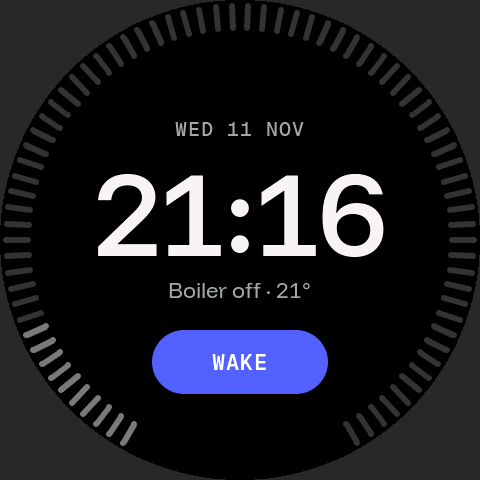
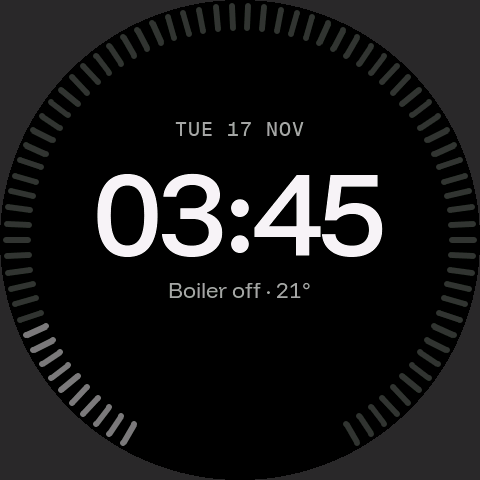
Display: Standby has no WAKE pill; date, clock and line centred as one group
A tap anywhere on Standby wakes the machine. Diverges from the design's DisplayStandby card on purpose.

diff --git a/scripts/verify_display_menu.py b/scripts/verify_display_menu.py
@@ -270,15 +270,15 @@ def menu_from_standby():
         "tap 240 240; wait 1700; expect screen standby; expect mode 0; redraw power.redraw; quit",
     )
     page = sim.layout("menu.json")
-    check_menu(page, MODES, "BREW", "opened with WAKE")
+    check_menu(page, MODES, "BREW", "opened from Standby")
     glyph = slot(page)
-    checks.true(glyph is not None and box(glyph) == (226, 432, 253, 459), "opened with WAKE: the warning glyph is 28 px at 6 o'clock")
+    checks.true(glyph is not None and box(glyph) == (226, 432, 253, 459), "opened from Standby: the warning glyph is 28 px at 6 o'clock")
     if glyph is not None:
-        checks.color(glyph["color"], WARNING, "opened with WAKE: the glyph is warning (flush recommended after waking)")
+        checks.color(glyph["color"], WARNING, "opened from Standby: the glyph is warning (flush recommended after waking)")
         lowest = max(parent(page, page.find(name))["y2"] for name in ("WATER", "GRIND"))
-        checks.true(lowest < glyph["y1"] - 14, "opened with WAKE: the slot's touch disc is clear of the bottom discs")
+        checks.true(lowest < glyph["y1"] - 14, "opened from Standby: the slot's touch disc is clear of the bottom discs")
     check_menu(sim.layout("back.json"), MODES, "BREW", "back from the warnings")
-    budget(sim, "wake.redraw", "Standby to Menu (WAKE)")
+    budget(sim, "wake.redraw", "Standby to Menu (tap)")
     budget(sim, "lens.redraw", "Menu to Warnings (glyph)")
     budget(sim, "done.redraw", "Warnings to Menu (DONE)")
     budget(sim, "power.redraw", "Menu to Standby (power disc)")
@@ -390,20 +390,20 @@ def menu_forced():
     )
     budget(sim, "brew.redraw", "Menu to Brew, forced (mode set elsewhere)")
     budget(sim, "steam.redraw", "Menu to Steam, forced (steam switch)")
-    # Standby's clock repaints on each of its three frames (13.2, 13.8 and 15.6% with its label, line and
-    # WAKE). With the menu's 34% that is over three quarters of the panel in three frames: it cannot fit.
+    # Standby's clock repaints on each of its frames, with its label and line. With the menu's 34% that is over
+    # three quarters of the panel in three frames: it cannot fit.
     note(sim, "standby.redraw", "Menu to Standby, forced (mode set elsewhere)")
 
 
 def menu_disconnected():
-    # Without the controller the display sits on Standby and WAKE is away, so the menu is only reached from
+    # Without the controller the display sits on Standby and a tap does not wake it, so the menu is only reached from
     # Information. The script's `mode brew` is a shortcut the display itself never offers; what it shows is
     # the menu while no mode can be entered.
     sim = Sim("menu-disconnected")
     drive(
         sim,
         "wait 3500; tap 240 362; wait 1300; expect screen menu; redraw skip.redraw;"
-        "controller disconnected; wait 2500; expect screen standby; expect hidden WAKE; redraw lost.redraw;"
+        "controller disconnected; wait 2500; expect screen standby; redraw lost.redraw;"
         "mode brew; wait 1500; expect screen brew; tap 240 446; wait 1300; expect screen menu;"
         "expect hidden BREW; expect hidden STEAM; expect hidden WATER; expect hidden GRIND; expect text INFO;"
         "shot alone.bmp; layout alone.json;"

diff --git a/scripts/verify_display_core.py b/scripts/verify_display_core.py
@@ -30,7 +30,7 @@ standby = sim.layout("standby.json")
 checks.equal(standby.ring["layout"], "single", "Standby draws the single ring")
 checks.equal(standby.ring["tone"][0], "faint", "Standby's ring is ink-faint")
 checks.equal(standby.ring["notch"][0], -1, "Standby's ring has no notch")
-checks.true(standby.has("WAKE"), "WAKE is visible on Standby")
+checks.true(not standby.has("WAKE"), "Standby has no WAKE pill: a tap anywhere wakes")
 checks.true(any("Boiler off" in t for t in standby.texts()), "Standby says what the boiler is doing")
 brew = sim.layout("brew.json")
 checks.equal(brew.ring["layout"], "split", "Brew draws the split ring")
@@ -67,9 +67,9 @@ sim.save("brew.bmp", "docs/display/v2/core/brew-heating.png")
 for attempt in range(3):
     sim = Sim("core-states")
     sim.run(
-        "wait 3500; controller disconnected; wait 2500; expect text CONNECTING; expect hidden WAKE; redraw settle.json;"
+        "wait 3500; controller disconnected; wait 2500; expect text CONNECTING; redraw settle.json;"
         "layout before.json; wait 2000; redraw comet.json; layout after.json; shot connecting.bmp; error 4; wait 1500;"
-        "expect text TEMPERATURE ERROR; expect hidden WAKE; shot error.bmp; quit"
+        "expect text TEMPERATURE ERROR; shot error.bmp; quit"
     )
     clocks = [[o["text"] for o in sim.layout(name).objects if o["kind"] == "reading"] for name in ("before.json", "after.json")]
     if clocks[0] == clocks[1]:
@@ -80,14 +80,15 @@ checks.at_most(max(sim.redraw("comet.json")), 1.0, "the busy comet repaints unde
 sim.save("connecting.bmp", "docs/display/v2/core/standby-connecting.png")
 sim.save("error.bmp", "docs/display/v2/core/standby-error.png")
 
-# Pressed parts invert, WAKE opens the menu, Light is a setting.
+# A tap anywhere on Standby opens the menu, Light is a setting, pressed parts invert.
 sim = Sim("core-input")
 sim.run(
-    "wait 3500; press 240 362; wait 130; layout pressed.json; release; wait 700; expect screen menu;"
-    "mode brew; wait 2500; theme 1; wait 600; layout light.json; shot light.bmp; quit"
+    "wait 3500; tap 240 362; wait 700; expect screen menu;"
+    "mode brew; wait 2500; theme 1; wait 600; layout light.json; shot light.bmp;"
+    "theme 0; wait 600; press 240 344; wait 130; layout pressed.json; release; quit"
 )
 checks.count(sim)
-pressed = sim.layout("pressed.json").find("WAKE")
+pressed = sim.layout("pressed.json").find("START")
 checks.color(pressed and pressed.get("fill"), "#f2f2f2", "a pressed pill inverts to ink")
 light = sim.layout("light.json")
 checks.color(light.objects[0]["fill"], "#e9e9e9", "the Light theme paints the face in surface-0")

diff --git a/src/display/ui/bettermate/screens/StandbyScreen.cpp b/src/display/ui/bettermate/screens/StandbyScreen.cpp
@@ -8,7 +8,10 @@ namespace {
 #define BM_DEGREE "\xC2\xB0"
 #define BM_MIDDOT "\xC2\xB7"
 
-constexpr int CLOCK_BASELINE = 256;
+// The date, the clock and the line under it are centred on the panel as one group.
+constexpr int LABEL_BASELINE = 166;
+constexpr int CLOCK_BASELINE = 286;
+constexpr int LINE_BASELINE = 328;
 // At rest the clock is alone, so it sits on the panel's centre line.
 constexpr int REST_BASELINE = 282;
 // On an AMOLED panel a still picture burns in: after this long only the clock stays lit, and it drifts.
@@ -44,7 +47,7 @@ int triangle(int step, int peak) {
 struct Status {
     const char *word;     // takes the date's place; nullptr while the machine is simply asleep
     const char *sentence; // takes the line under the clock
-    bool busy;            // the comet circles and WAKE is away
+    bool busy;            // the comet circles
     bool blocked;         // a fault: the word is drawn in danger
 };
 
@@ -72,12 +75,10 @@ Status describe(const UiState &s) {
 
 void StandbyScreen::build(lv_obj_t *root) {
     addException();
-    label = part(ui::text(root, 240, 136, Type::Label, Tone::Muted, "", 232), 0);
+    label = part(ui::text(root, 240, LABEL_BASELINE, Type::Label, Tone::Muted, "", 232), 0);
     clock.build(root, 240, CLOCK_BASELINE, Type::Hero, Tone::Ink);
     part(clock.obj(), 0);
-    line = part(ui::text(root, 240, 298, Type::Body, Tone::Muted, "", tokens::DISPLAY_SQUARE), 1);
-    wake = part(ui::pill(root, 240, 330, 176, "WAKE", Tone::Primary), 2);
-    bind(wake, Intent::Wake);
+    line = part(ui::text(root, 240, LINE_BASELINE, Type::Body, Tone::Muted, "", tokens::DISPLAY_SQUARE), 1);
 }
 
 void StandbyScreen::onEnter(const UiState &state) {
@@ -135,7 +136,6 @@ void StandbyScreen::update(const UiState &s) {
     }
     ui::setText(line, buf);
     show(line, !resting);
-    show(wake, s.canWake && !status.busy && !resting);
     // Warnings stay visible through rest.
     updateException(s, true);
     // The clock moves to the centre one snapshot after the rest of the screen has left: two small repaints

diff --git a/src/display/ui/bettermate/screens/StandbyScreen.h b/src/display/ui/bettermate/screens/StandbyScreen.h
@@ -5,8 +5,9 @@
 
 namespace bm {
 
-// The display at rest: the clock as the one reading, the boiler's residual heat greyed on a single ring, and
-// WAKE as the one action. While the machine is busy or blocked the reason takes the line under the clock.
+// The display at rest: the clock as the one reading and the boiler's residual heat greyed on a single ring. There
+// is no control on the glass: a tap anywhere wakes the machine. While the machine is busy or blocked the reason
+// takes the line under the clock.
 class StandbyScreen : public Screen {
   public:
     using Screen::Screen;
@@ -23,7 +24,6 @@ class StandbyScreen : public Screen {
     lv_obj_t *label = nullptr;
     ui::Reading clock;
     lv_obj_t *line = nullptr;
-    lv_obj_t *wake = nullptr;
     unsigned long enteredAt = 0;
     int restStep = -2;
     bool wasResting = false;
